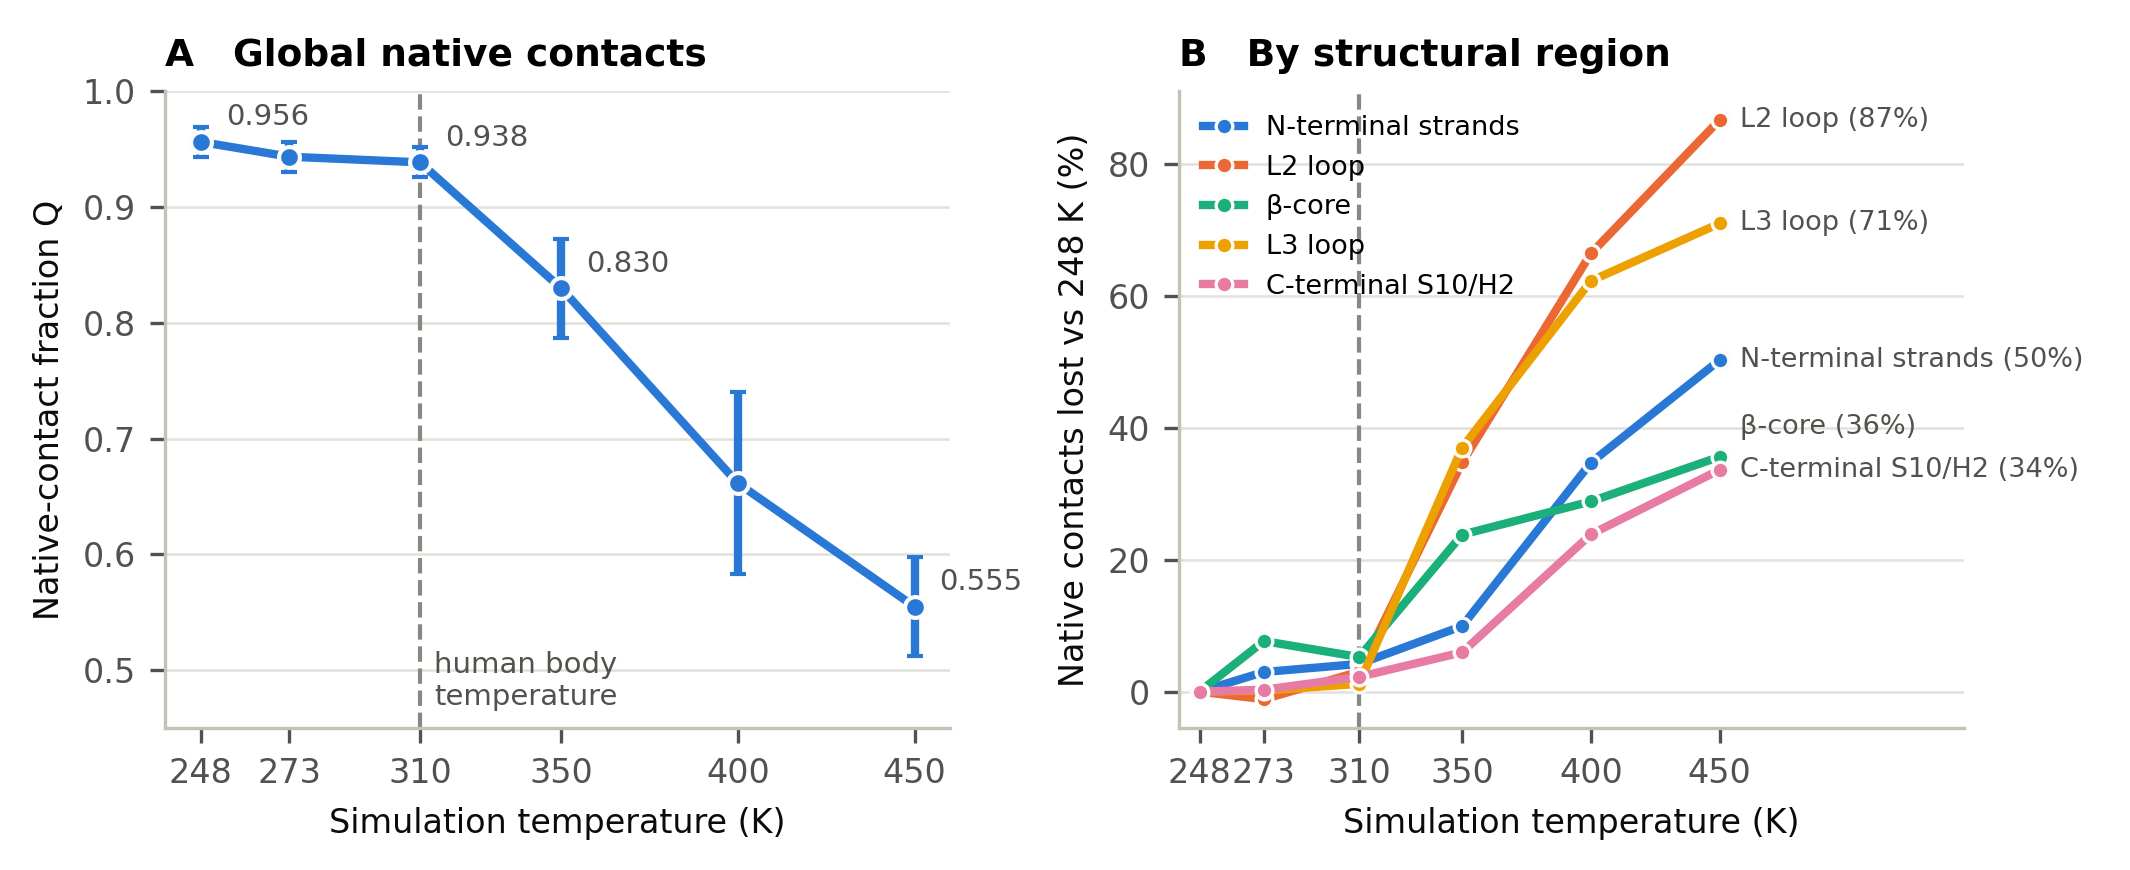
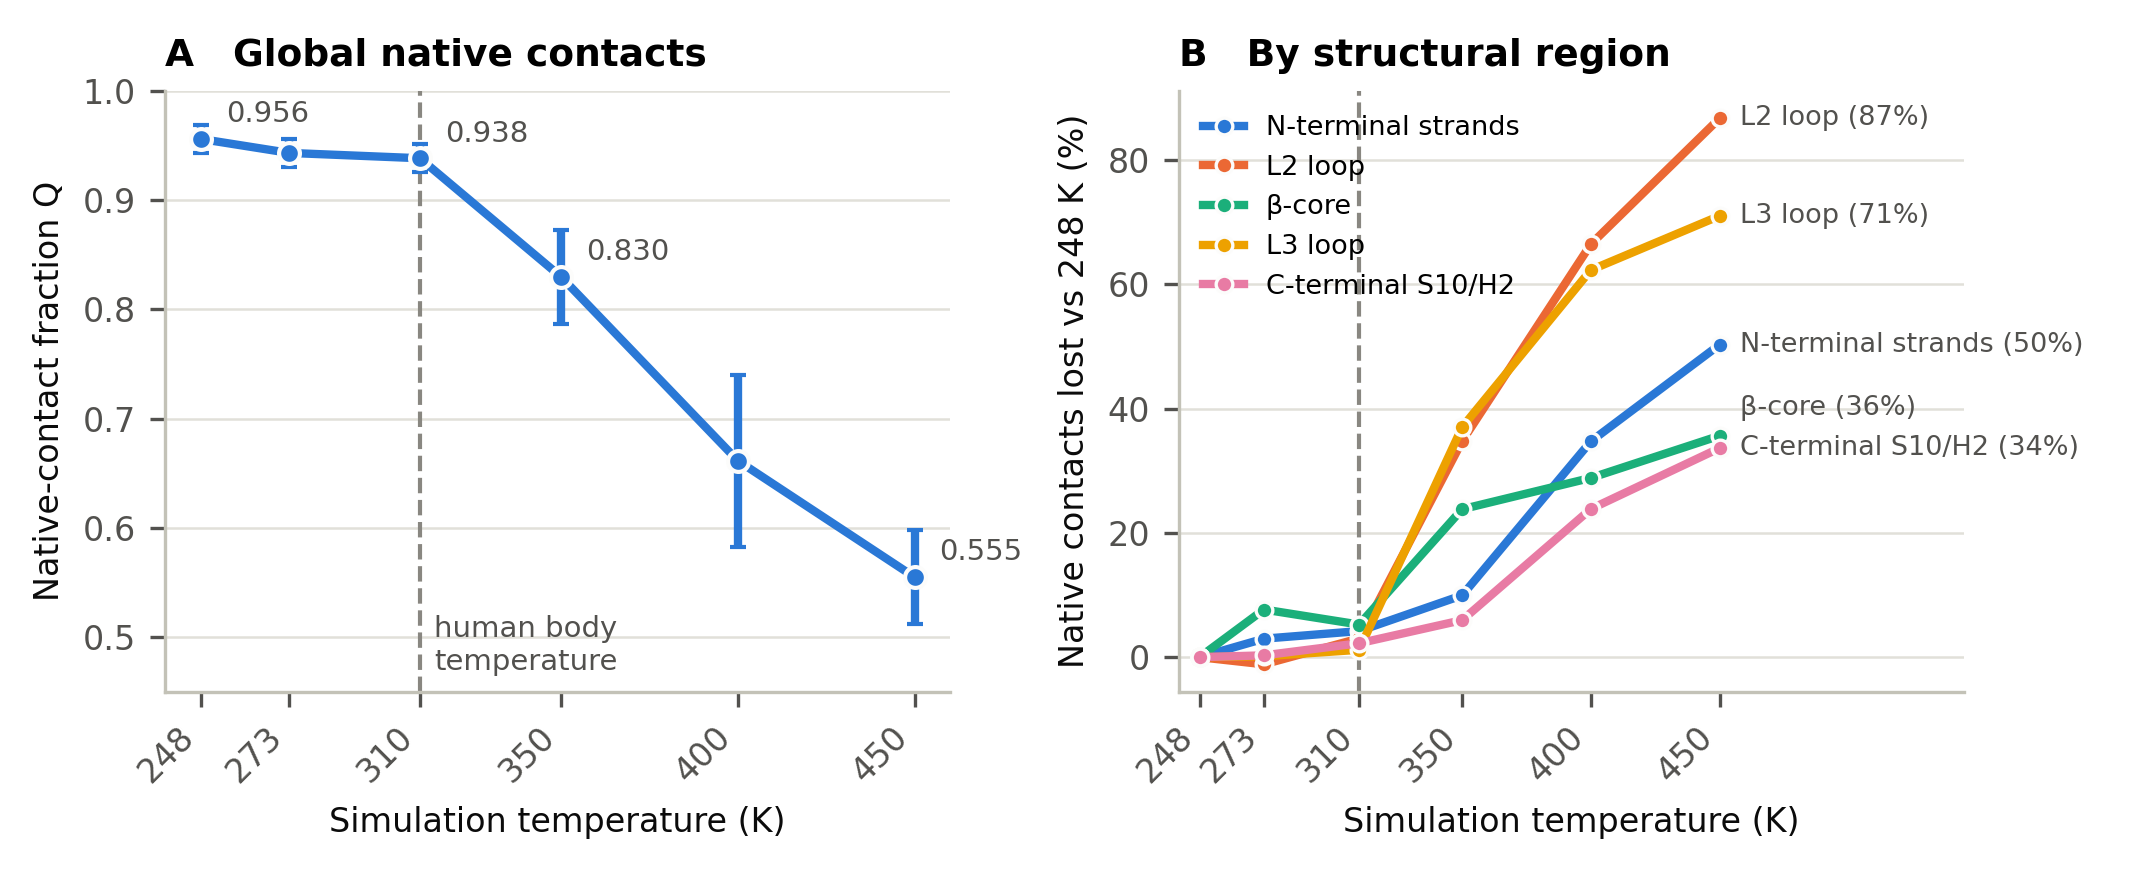
Update figures and figure scripts (layout fixes)

diff --git a/scripts/figs_animals.py b/scripts/figs_animals.py
@@ -32,6 +32,7 @@ for i in range(1, len(y)): y[i] = max(y[i], y[i - 1] + 6.5)
 for (v, lab), yy in zip(ends, y): b.text(458, yy, f"{lab} ({v:.0f}%)", fontsize=6.5, color=INK2, va="center")
 b.set(xlabel="Simulation temperature (K)", ylabel="Native contacts lost vs 248 K (%)", xlim=(240, 545), xticks=TS); b.set_title("B   By structural region")
 b.legend(loc="upper left", fontsize=6.5, handlelength=1.5)
+for x_ in ax: x_.set_xticks(TS); x_.set_xticklabels([str(T) for T in TS], rotation=45, ha="right")
 fig.tight_layout(); fig.savefig(O / "fig3_thermal_response.png", dpi=300, facecolor="white"); fig.savefig(O / "fig3_thermal_response.pdf"); plt.close(fig)
 # ---------- per-species identity ----------
 def read_fa(p):
